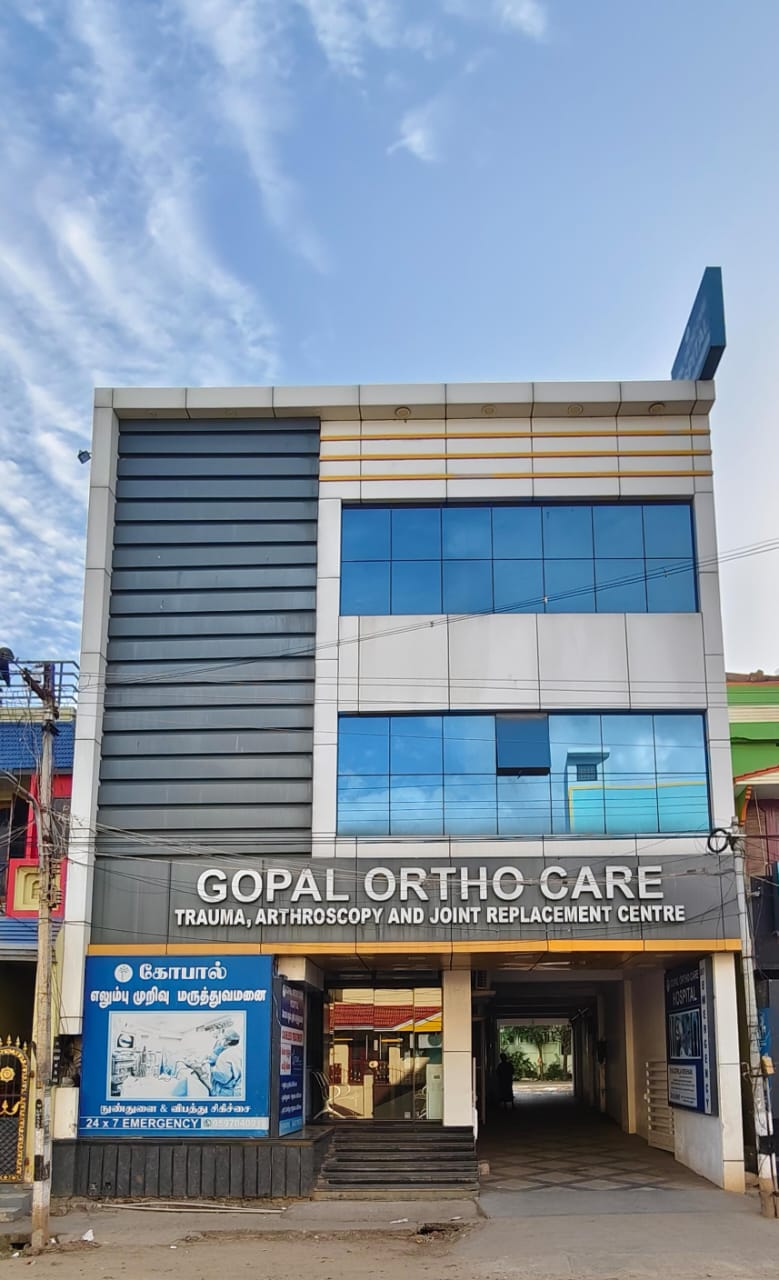
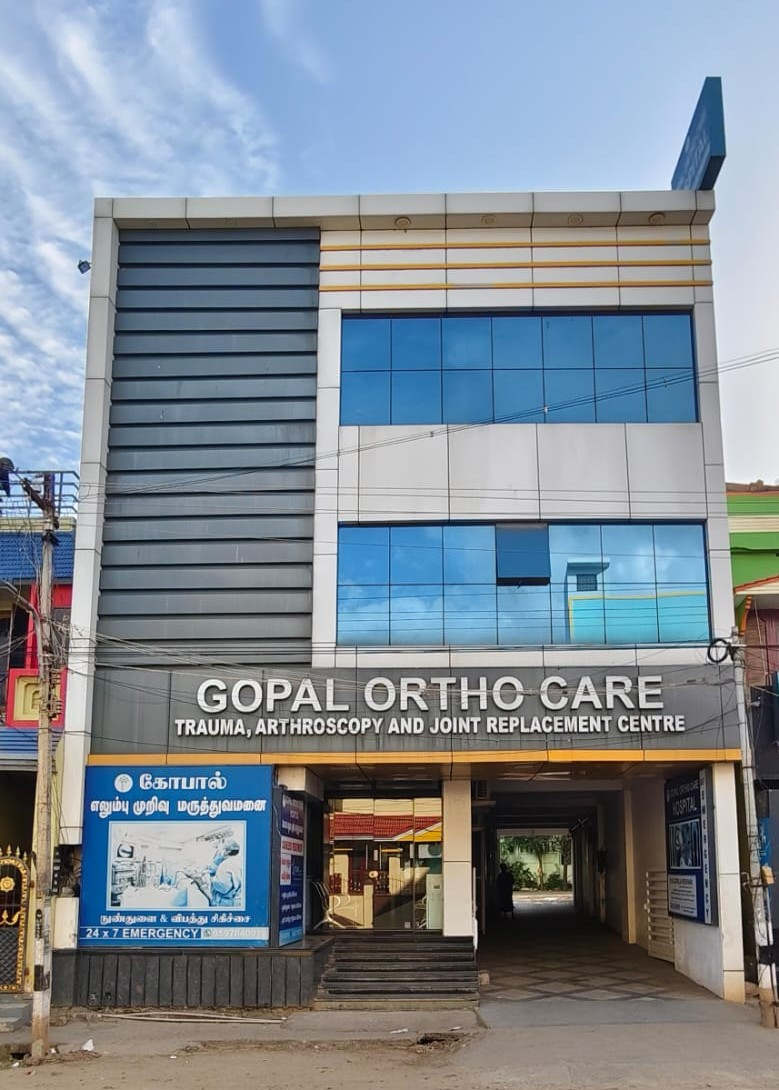
nav bar fixed

diff --git a/components/Navbar.html b/components/Navbar.html
@@ -5,7 +5,7 @@
 
 #site-header{
   position:sticky;
-  top:0;
+  top:calc(-1 * var(--top-banner-height));
   z-index:1001;
 }
 
@@ -28,7 +28,7 @@
   width:100%;
   min-height:var(--top-banner-height);
   margin:0 auto;
-  padding:0 48px 0 clamp(1rem,2vw,1.5rem);
+  padding:0 clamp(1rem,2vw,1.5rem);
   display:flex;
   align-items:center;
   justify-content:center;
@@ -39,7 +39,7 @@
   align-items:center;
   justify-content:center;
   gap:.75rem;
-  max-width:calc(100% - 8px);
+  max-width:100%;
 }
 
 .emergency-bar__alert-icon{
@@ -98,53 +98,8 @@
   transform:translateY(-1px);
 }
 
-.emergency-bar__close{
-  position:absolute;
-  top:0;
-  right:0;
-  bottom:0;
-  width:44px;
-  display:flex;
-  align-items:center;
-  justify-content:center;
-  color:rgba(255,255,255,0.85);
-  border-left:1px solid rgba(255,255,255,0.24);
-  background:transparent;
-  cursor:pointer;
-}
-
-.emergency-bar__close svg{
-  width:16px;
-  height:16px;
-  stroke:currentColor;
-}
-
-.emergency-bar__close:hover{
-  background:rgba(255,255,255,0.08);
-  color:#fff;
-}
-
-body.emergency-bar-collapsed #emergency-bar{
-  height:0;
-  min-height:0;
-  opacity:0;
-  transform:translateY(-100%);
-  border-bottom-width:0;
-  overflow:hidden;
-  pointer-events:none;
-}
-
-body.emergency-bar-hidden #emergency-bar{
-  display:none;
-}
-
-body.emergency-bar-hidden #navbar{
-  top:0;
-}
-
 #navbar{
   position:relative;
-  top:0;
   z-index:1;
   width:100%;
   background:rgba(255,255,255,0.95);
@@ -309,6 +264,12 @@ body.emergency-bar-hidden #navbar{
   align-items:center;
   justify-content:center;
   flex-shrink:0;
+}
+
+.mega-icon img{
+  width:22px;
+  height:22px;
+  object-fit:contain;
 }
 
 .mega-item-title{
@@ -536,9 +497,6 @@ body.emergency-bar-hidden #navbar{
       <span class="emergency-bar__text">24/7 Emergency Orthopaedic Care - Call: <a href="tel:+919597040918" class="emergency-bar__phone">095970 40918</a></span>
       <a href="tel:+919597040918" class="emergency-bar__cta">Call Now</a>
     </div>
-    <button class="emergency-bar__close" id="emergency-bar-close" aria-label="Dismiss emergency banner">
-      <svg viewBox="0 0 24 24" fill="none" aria-hidden="true"><path d="M18 6L6 18M6 6l12 12" stroke-width="1.9" stroke-linecap="round"/></svg>
-    </button>
   </div>
 </div>
 
@@ -554,27 +512,27 @@ body.emergency-bar-hidden #navbar{
         <a href="{{BASE}}services/index.html" class="nav-link" data-page="services">Services ▾</a>
         <div class="mega-menu" role="navigation" aria-label="Services submenu">
           <a href="{{BASE}}services/index.html#fracture" class="mega-item">
-            <div class="mega-icon"><svg viewBox="0 0 24 24" fill="none" width="18" height="18"><path d="M12 2L6 22M18 7l-6 15M8 7l8 0" stroke="#0A6EBD" stroke-width="1.5" stroke-linecap="round"/></svg></div>
+            <div class="mega-icon"><img src="{{BASE}}assets/svg/icons/Fracture.png" alt=""></div>
             <div><div class="mega-item-title">Fracture &amp; Trauma</div><div class="mega-item-sub">Emergency &amp; planned fixation</div></div>
           </a>
           <a href="{{BASE}}services/index.html#joint" class="mega-item">
-            <div class="mega-icon"><svg viewBox="0 0 24 24" fill="none" width="18" height="18"><circle cx="12" cy="10" r="5" stroke="#0A6EBD" stroke-width="1.5"/><path d="M12 15v7" stroke="#0A6EBD" stroke-width="1.5" stroke-linecap="round"/></svg></div>
+            <div class="mega-icon"><img src="{{BASE}}assets/svg/icons/Joint.png" alt=""></div>
             <div><div class="mega-item-title">Joint Replacement</div><div class="mega-item-sub">Knee &amp; hip arthroplasty</div></div>
           </a>
           <a href="{{BASE}}services/index.html#spine" class="mega-item">
-            <div class="mega-icon"><svg viewBox="0 0 24 24" fill="none" width="18" height="18"><rect x="8" y="2" width="8" height="6" rx="2" stroke="#0A6EBD" stroke-width="1.5"/><rect x="8" y="10" width="8" height="6" rx="2" stroke="#0A6EBD" stroke-width="1.5"/><rect x="8" y="18" width="8" height="4" rx="2" stroke="#0A6EBD" stroke-width="1.5"/></svg></div>
+            <div class="mega-icon"><img src="{{BASE}}assets/svg/icons/Spine.png" alt=""></div>
             <div><div class="mega-item-title">Spine Surgery</div><div class="mega-item-sub">Disc, stenosis, deformity</div></div>
           </a>
           <a href="{{BASE}}services/index.html#sports" class="mega-item">
-            <div class="mega-icon"><svg viewBox="0 0 24 24" fill="none" width="18" height="18"><circle cx="12" cy="12" r="10" stroke="#0A6EBD" stroke-width="1.5"/><path d="M4.93 4.93l14.14 14.14M19.07 4.93L4.93 19.07" stroke="#0A6EBD" stroke-width="1.5" stroke-linecap="round"/></svg></div>
+            <div class="mega-icon"><img src="{{BASE}}assets/svg/icons/sport managemet.png" alt=""></div>
             <div><div class="mega-item-title">Sports Medicine</div><div class="mega-item-sub">ACL, meniscus, rotator cuff</div></div>
           </a>
           <a href="{{BASE}}services/index.html#physio" class="mega-item">
-            <div class="mega-icon"><svg viewBox="0 0 24 24" fill="none" width="18" height="18"><circle cx="12" cy="5" r="3" stroke="#0A6EBD" stroke-width="1.5"/><path d="M5 10h14M7 10v12M17 10v12" stroke="#0A6EBD" stroke-width="1.5" stroke-linecap="round"/></svg></div>
+            <div class="mega-icon"><img src="{{BASE}}assets/svg/icons/Physiotherapy.png" alt=""></div>
             <div><div class="mega-item-title">Physiotherapy</div><div class="mega-item-sub">Rehab &amp; recovery programs</div></div>
           </a>
           <a href="{{BASE}}services/index.html#pain" class="mega-item">
-            <div class="mega-icon"><svg viewBox="0 0 24 24" fill="none" width="18" height="18"><path d="M12 2v4M12 18v4M4.93 4.93l2.83 2.83M16.24 16.24l2.83 2.83M2 12h4M18 12h4M4.93 19.07l2.83-2.83M16.24 7.76l2.83-2.83" stroke="#0A6EBD" stroke-width="1.5" stroke-linecap="round"/></svg></div>
+            <div class="mega-icon"><img src="{{BASE}}assets/svg/icons/pain management.png" alt=""></div>
             <div><div class="mega-item-title">Pain Management</div><div class="mega-item-sub">Injections, PRP, nerve blocks</div></div>
           </a>
         </div>

diff --git a/index.html b/index.html
@@ -124,7 +124,7 @@ ul{list-style:none;padding:0;margin:0;}
    EMERGENCY BAR
 ================================================================ */
 #emergency-bar{
-  position:sticky;top:0;z-index:1001;
+  position:relative;z-index:1001;
   width:100%;height:var(--top-banner-height);min-height:var(--top-banner-height);
   background:linear-gradient(90deg,#0A5A94 0%,#0E6CAB 50%,#0A5A94 100%);
   border-bottom:1px solid rgba(125,211,252,0.32);
@@ -137,33 +137,20 @@ ul{list-style:none;padding:0;margin:0;}
   width:100%;
   min-height:var(--top-banner-height);
   margin:0 auto;
-  padding:0 48px 0 clamp(1rem,2vw,1.5rem);
+  padding:0 clamp(1rem,2vw,1.5rem);
   display:flex;align-items:center;justify-content:center;
 }
-.emergency-bar__center{display:flex;align-items:center;justify-content:center;gap:.75rem;max-width:calc(100% - 8px);}
+.emergency-bar__center{display:flex;align-items:center;justify-content:center;gap:.75rem;max-width:100%;}
 .emergency-bar__alert-icon{display:inline-flex;align-items:center;justify-content:center;flex-shrink:0;color:rgba(255,255,255,0.95);}
 .emergency-bar__alert-icon svg{width:16px;height:16px;stroke:currentColor;}
 .emergency-bar__text{font-family:'DM Sans',sans-serif;font-size:clamp(.875rem,.95vw,1.12rem);font-weight:500;color:#fff;letter-spacing:.01em;line-height:1;white-space:nowrap;overflow:hidden;text-overflow:ellipsis;max-width:min(64vw,980px);}
 .emergency-bar__phone{color:#fff;font-weight:700;text-decoration:none;}
 .emergency-bar__cta{display:inline-flex;align-items:center;justify-content:center;height:36px;padding:0 1rem;border-radius:9999px;background:#2EBEFF;color:#fff;font-family:'DM Sans',sans-serif;font-size:.875rem;font-weight:700;text-decoration:none;transition:background .2s ease,transform .2s ease;white-space:nowrap;flex-shrink:0;}
 .emergency-bar__cta:hover{background:#57CAFF;transform:translateY(-1px);}
-.emergency-bar__close{position:absolute;top:0;right:0;bottom:0;width:44px;display:flex;align-items:center;justify-content:center;color:rgba(255,255,255,0.85);border-left:1px solid rgba(255,255,255,0.24);background:transparent;cursor:pointer;}
-.emergency-bar__close svg{width:16px;height:16px;stroke:currentColor;}
-.emergency-bar__close:hover{background:rgba(255,255,255,0.08);color:#fff;}
-body.emergency-bar-collapsed #emergency-bar{
-  height:0;
-  min-height:0;
-  opacity:0;
-  border-bottom-color:transparent;
-  pointer-events:none;
-}
-body.emergency-bar-collapsed #navbar{top:0;}
-body.emergency-bar-hidden #emergency-bar{display:none;}
-body.emergency-bar-hidden #navbar{top:0;}
 @media(max-width:900px){
   :root{--top-banner-height:50px;}
   #emergency-bar{height:var(--top-banner-height);min-height:var(--top-banner-height);}
-  .emergency-bar__inner{min-height:var(--top-banner-height);padding:0 44px 0 .875rem;}
+  .emergency-bar__inner{min-height:var(--top-banner-height);padding:0 .875rem;}
   .emergency-bar__center{gap:.55rem;}
   .emergency-bar__text{font-size:.8125rem;max-width:57vw;}
   .emergency-bar__cta{height:30px;padding:0 .8rem;font-size:.75rem;}
@@ -176,8 +163,11 @@ body.emergency-bar-hidden #navbar{top:0;}
 /* ================================================================
    NAVBAR
 ================================================================ */
+#site-header{
+  position:sticky;top:calc(-1 * var(--top-banner-height));z-index:1001;
+}
 #navbar{
-  position:sticky;top:var(--top-banner-height);z-index:1000;
+  position:relative;z-index:1000;
   width:100%;
   background:rgba(255,255,255,0.95);
   backdrop-filter:blur(20px) saturate(180%);
@@ -981,10 +971,10 @@ body.emergency-bar-hidden #navbar{top:0;}
   background:linear-gradient(90deg,transparent,var(--gold),transparent);
 }
 .contact-grid{display:grid;grid-template-columns:1fr 1fr;gap:0;min-height:560px;}
-.contact-grid{grid-template-columns:minmax(0,.95fr) minmax(360px,1.05fr);min-height:380px;}
-.contact-map-col{position:relative;min-height:260px;padding:1.5rem;background:linear-gradient(180deg,#071f31 0%,#08253b 100%);}
-.contact-map-frame{height:100%;min-height:260px;border-radius:22px;overflow:hidden;box-shadow:0 18px 40px rgba(0,0,0,0.16);border:1px solid rgba(255,255,255,0.08);}
-.contact-map-col iframe{width:100%;height:100%;min-height:260px;display:block;border:0;filter:grayscale(10%) contrast(1.03);}
+.contact-grid{grid-template-columns:minmax(0,1.02fr) minmax(360px,.98fr);min-height:500px;}
+.contact-map-col{position:relative;min-height:400px;padding:2rem;background:linear-gradient(180deg,#071f31 0%,#08253b 100%);}
+.contact-map-frame{height:100%;min-height:400px;border-radius:24px;overflow:hidden;box-shadow:0 20px 48px rgba(0,0,0,0.18);border:1px solid rgba(255,255,255,0.08);}
+.contact-map-col iframe{width:100%;height:100%;min-height:400px;display:block;border:0;filter:grayscale(10%) contrast(1.03);}
 .contact-info-col{padding:clamp(2.5rem,5vw,4.5rem);display:flex;flex-direction:column;justify-content:center;gap:0;}
 .contact-info-items{display:flex;flex-direction:column;gap:1.25rem;margin-top:2rem;}
 .contact-info-item{display:flex;align-items:flex-start;gap:1rem;}
@@ -993,7 +983,7 @@ body.emergency-bar-hidden #navbar{top:0;}
 .contact-info-value{font-family:'DM Sans',sans-serif;font-size:.9375rem;color:#fff;font-weight:500;}
 .contact-info-sub{font-family:'DM Sans',sans-serif;font-size:.8125rem;color:rgba(255,255,255,0.4);margin-top:.125rem;}
 .contact-actions{display:flex;flex-wrap:wrap;gap:.875rem;margin-top:2rem;}
-@media(max-width:900px){.hospital-showcase__grid{grid-template-columns:1fr;}.hospital-showcase__image{min-height:420px;}.hospital-showcase__stats{grid-template-columns:1fr 1fr;}.contact-grid{grid-template-columns:1fr;}.contact-map-col{min-height:240px;padding:1.1rem;}.contact-map-frame,.contact-map-col iframe{min-height:240px;}}
+@media(max-width:900px){.hospital-showcase__grid{grid-template-columns:1fr;}.hospital-showcase__image{min-height:420px;}.hospital-showcase__stats{grid-template-columns:1fr 1fr;}.contact-grid{grid-template-columns:1fr;}.contact-map-col{min-height:320px;padding:1.25rem;}.contact-map-frame,.contact-map-col iframe{min-height:320px;}}
 @media(max-width:620px){.hospital-showcase__stats{grid-template-columns:1fr;}}
 
 /* ================================================================

diff --git a/components/navbar-loader.js b/components/navbar-loader.js
@@ -47,13 +47,9 @@
 
   function initHeaderInteractions() {
     var navbar = document.getElementById('navbar');
-    var emergencyBar = document.getElementById('emergency-bar');
-    var emergencyBarClose = document.getElementById('emergency-bar-close');
     var drawer = document.getElementById('mobile-drawer');
     var toggle = document.getElementById('mobile-toggle');
     var closeBtn = document.getElementById('drawer-close');
-    var lastScrollY = window.scrollY;
-    var emergencyHideDelta = 12;
 
     function updateHeaderOnScroll() {
       var currentScrollY = window.scrollY;
@@ -61,39 +57,10 @@
       if (navbar) {
         navbar.classList.toggle('scrolled', currentScrollY > 40);
       }
-
-      if (!emergencyBar || document.body.classList.contains('emergency-bar-hidden')) {
-        lastScrollY = currentScrollY;
-        return;
-      }
-
-      var scrollDiff = currentScrollY - lastScrollY;
-      if (currentScrollY <= 10) {
-        document.body.classList.remove('emergency-bar-collapsed');
-      } else if (scrollDiff > emergencyHideDelta) {
-        document.body.classList.add('emergency-bar-collapsed');
-      } else if (scrollDiff < -emergencyHideDelta) {
-        document.body.classList.remove('emergency-bar-collapsed');
-      }
-
-      lastScrollY = currentScrollY;
-    }
-
-    if (sessionStorage.getItem('gopalEmergencyHidden') === '1') {
-      document.body.classList.add('emergency-bar-hidden');
-      document.body.classList.remove('emergency-bar-collapsed');
     }
 
     updateHeaderOnScroll();
     window.addEventListener('scroll', updateHeaderOnScroll, { passive: true });
-
-    if (emergencyBarClose) {
-      emergencyBarClose.addEventListener('click', function () {
-        document.body.classList.remove('emergency-bar-collapsed');
-        document.body.classList.add('emergency-bar-hidden');
-        sessionStorage.setItem('gopalEmergencyHidden', '1');
-      });
-    }
 
     function openDrawer() {
       if (!drawer || !toggle) return;

diff --git a/contact/index.html b/contact/index.html
@@ -52,9 +52,9 @@
     .form-submit{width:100%;background:#0A6EBD;color:white;border:none;border-radius:9999px;height:52px;font-family:'DM Sans',sans-serif;font-size:.9375rem;font-weight:500;cursor:pointer;transition:background .25s,transform .25s;margin-top:.5rem;display:flex;align-items:center;justify-content:center;gap:.5rem;}
     .form-submit:hover{background:#C8973A;transform:translateY(-1px);}
     /* Map */
-    .map-section{background:#062A45;padding:1.5rem clamp(1rem,4vw,2rem) 2rem;}
-    .map-frame{max-width:920px;margin:0 auto;border-radius:22px;overflow:hidden;box-shadow:0 20px 48px rgba(0,0,0,.18);border:1px solid rgba(255,255,255,.08);}
-    .map-iframe{width:100%;height:260px;border:0;display:block;filter:grayscale(10%);}
+    .map-section{background:#062A45;padding:1.75rem clamp(1rem,4vw,2rem) 2.25rem;}
+    .map-frame{max-width:1180px;margin:0 auto;border-radius:22px;overflow:hidden;box-shadow:0 20px 48px rgba(0,0,0,.18);border:1px solid rgba(255,255,255,.08);}
+    .map-iframe{width:100%;height:420px;border:0;display:block;filter:grayscale(10%);}
     /* Footer */
     .footer-simple{background:#041C30;border-top:2px solid #C8973A;padding:2rem 0;}
     .footer-simple__inner{display:flex;align-items:center;justify-content:space-between;gap:1rem;flex-wrap:wrap;}
@@ -148,7 +148,7 @@
   <div class="map-section">
     <div class="map-frame">
       <iframe class="map-iframe"
-        src="https://www.google.com/maps/embed?pb=!1m18!1m12!1m3!1d254360.58!2d77.3326!3d8.1748!2m3!1f0!2f0!3f0!3m2!1i1024!2i768!4f13.1!3m3!1m2!1s0x3b04f09ab3aaaaab%3A0xb825badd1bed0!2sNagercoil%2C%20Tamil%20Nadu!5e0!3m2!1sen!2sin!4v1"
+        src="https://www.google.com/maps/embed?pb=!1m18!1m12!1m3!1d4170.457774003569!2d77.4402167!3d8.168854699999997!2m3!1f0!2f0!3f0!3m2!1i1024!2i768!4f13.1!3m3!1m2!1s0x3b04f1cd1fe317ad%3A0x5eca7b52edbd4d7a!2sGOPAL%20ORTHO%20CARE%20HOSPITAL!5e1!3m2!1sen!2sin!4v1778082703021!5m2!1sen!2sin"
         allowfullscreen loading="lazy" referrerpolicy="no-referrer-when-downgrade"
         title="Gopal Ortho on Google Maps" aria-label="Map showing location of Gopal Ortho in Kottar, Nagercoil">
       </iframe>